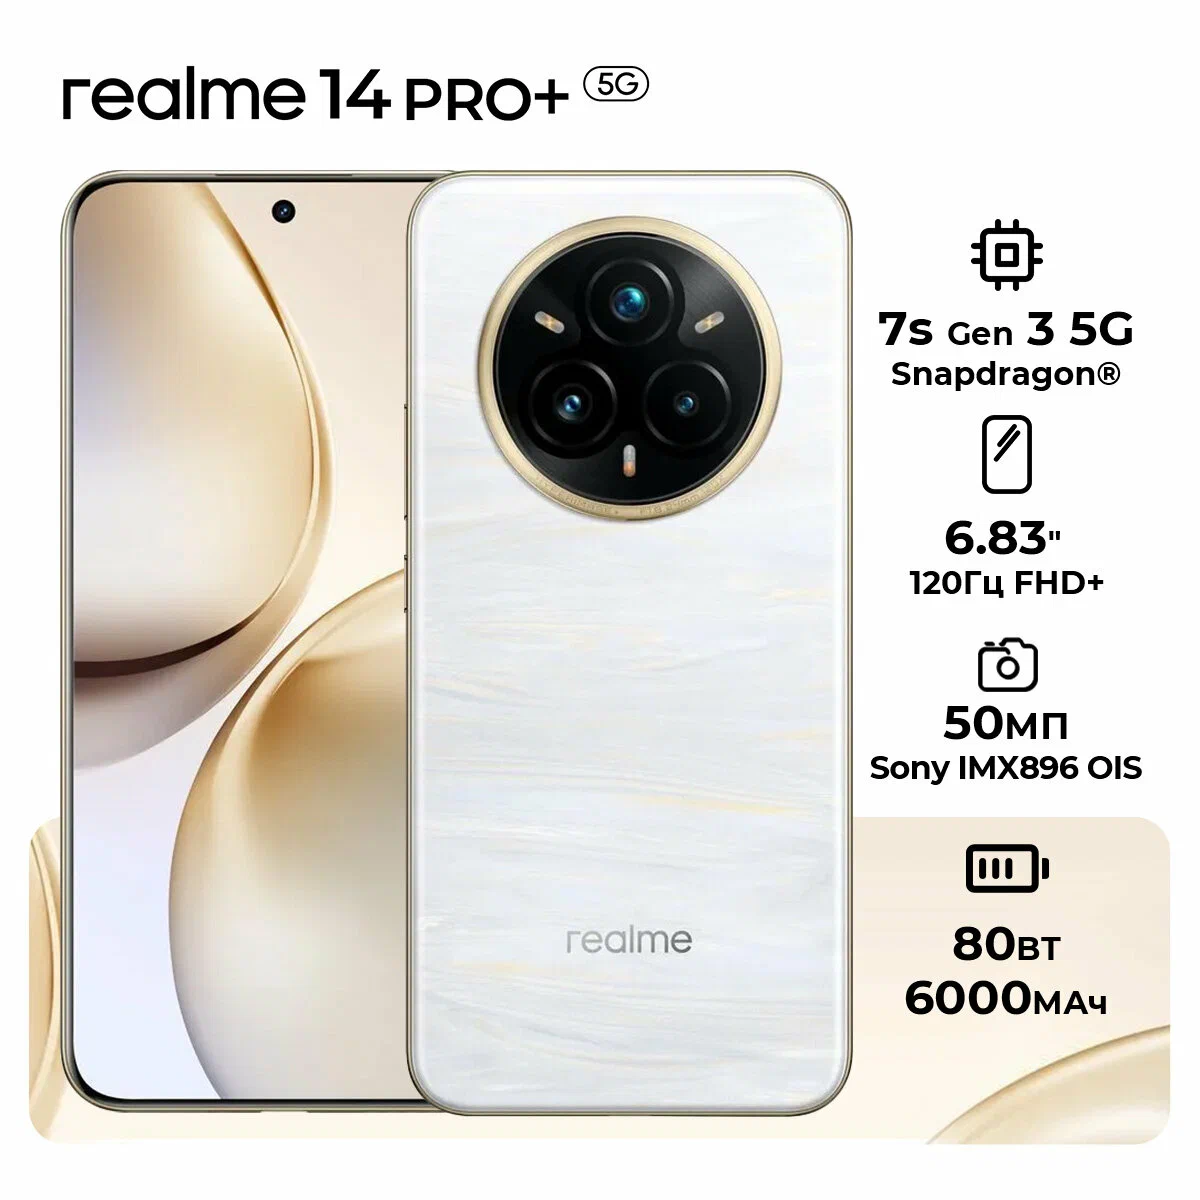
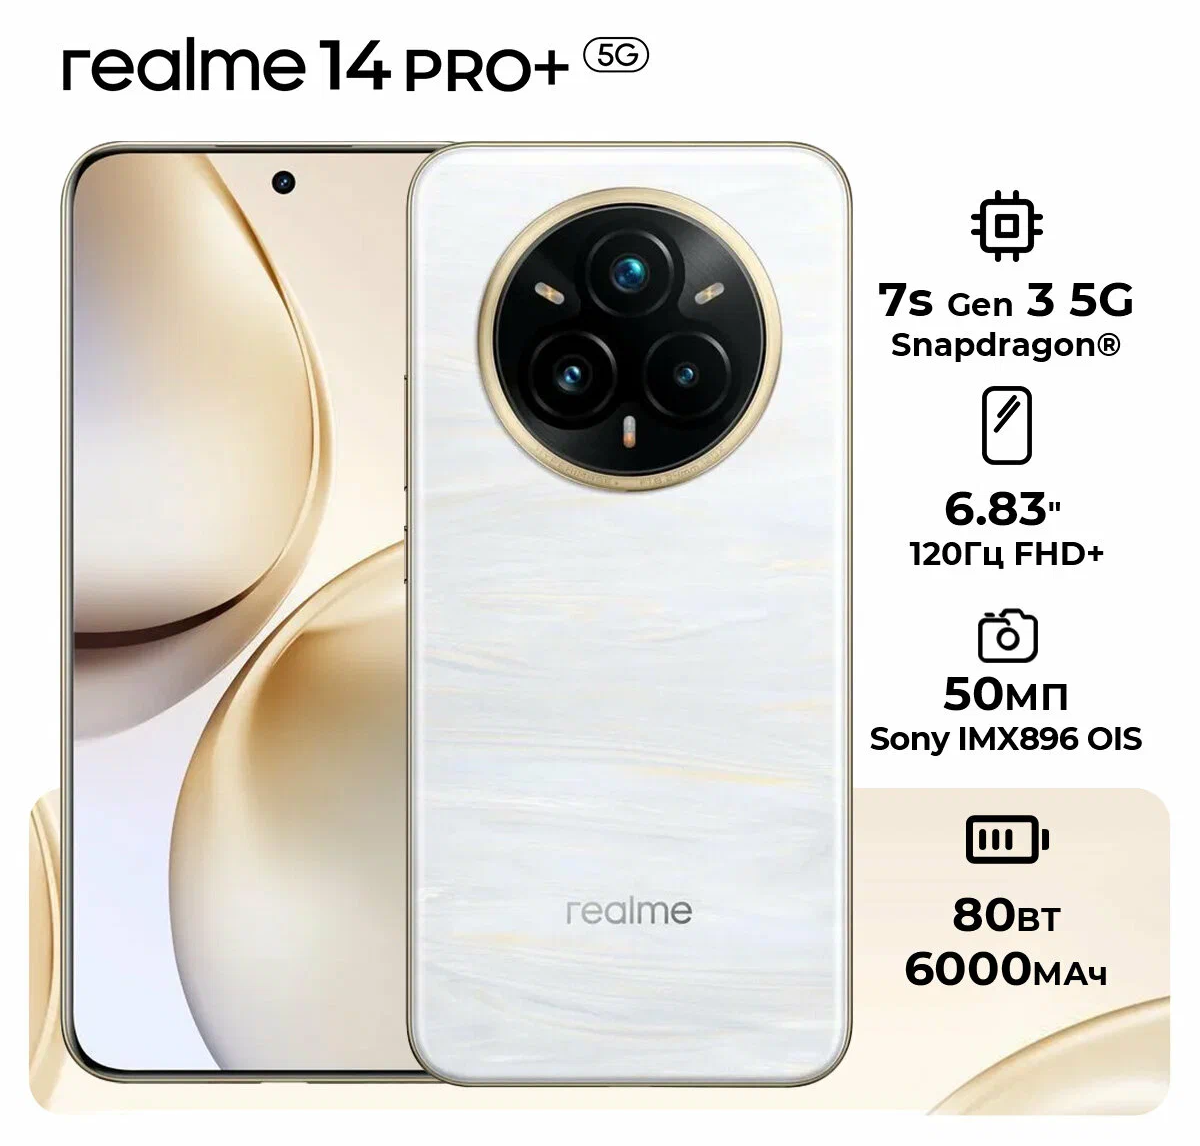
fix: Исправлено отображение кнопки и цены продукта
-Цена продукта показывается с знаком рубля
-Изменены цвета кнопки и панели информации чтобы при наведении кнопа была видна
-Изменены разрешения фотографий продукта

diff --git a/ProductsShop/Views/ShopPage.xaml b/ProductsShop/Views/ShopPage.xaml
@@ -15,7 +15,7 @@
                   IsItemClickEnabled="False">
             <GridView.ItemTemplate>
                 <DataTemplate x:DataType="m:Product">
-                    <Border Width="280" Height="380" Padding="10" Margin="10" 
+                    <Border Width="280" Height="380" Margin="10" 
                             CornerRadius="12" Background="White" BorderBrush="#ddd" BorderThickness="1">
                         <Grid>
                             <Grid.RowDefinitions>
@@ -25,23 +25,26 @@
                             <Border CornerRadius="12,12,0,0" Grid.Row="0">
                                 <Image Source="{x:Bind ImageUri}" Height="160" Stretch="Uniform"/>
                             </Border>
-                            <StackPanel Grid.Row="1" Background="#fafafa" Padding="6" Spacing="8">
-                                <TextBlock Text="{x:Bind Name}"  FontSize="20"
+                            <StackPanel Grid.Row="1" Background="LightGray" Padding="6" Spacing="8">
+                                <TextBlock Text="{x:Bind Name}" FontSize="20"
                                                Foreground="#333"
                                                TextWrapping="WrapWholeWords"
                                                MaxLines="1"
                                                FontWeight="SemiBold"/>
-                                <TextBlock Text="{x:Bind Price}"
-                                               FontSize="16"
+                                <TextBlock FontSize="18"
                                                FontWeight="Medium"
-                                               Foreground="#666"/>
+                                               Foreground="#666">
+                                    <Run Text="{x:Bind Price}"/>
+                                    <Run Text="₽"/>
+                                </TextBlock>
                                 <Button Content="В корзину"
                                         Background="{ThemeResource SystemControlHighlightAccentBrush}"
                                         Foreground="White"
                                         CornerRadius="8"
                                         Height="40"
                                         HorizontalAlignment="Stretch"
-                                        FontWeight="SemiBold"/>
+                                        FontWeight="SemiBold">
+                                </Button>
                             </StackPanel>
                         </Grid>
                     </Border>
